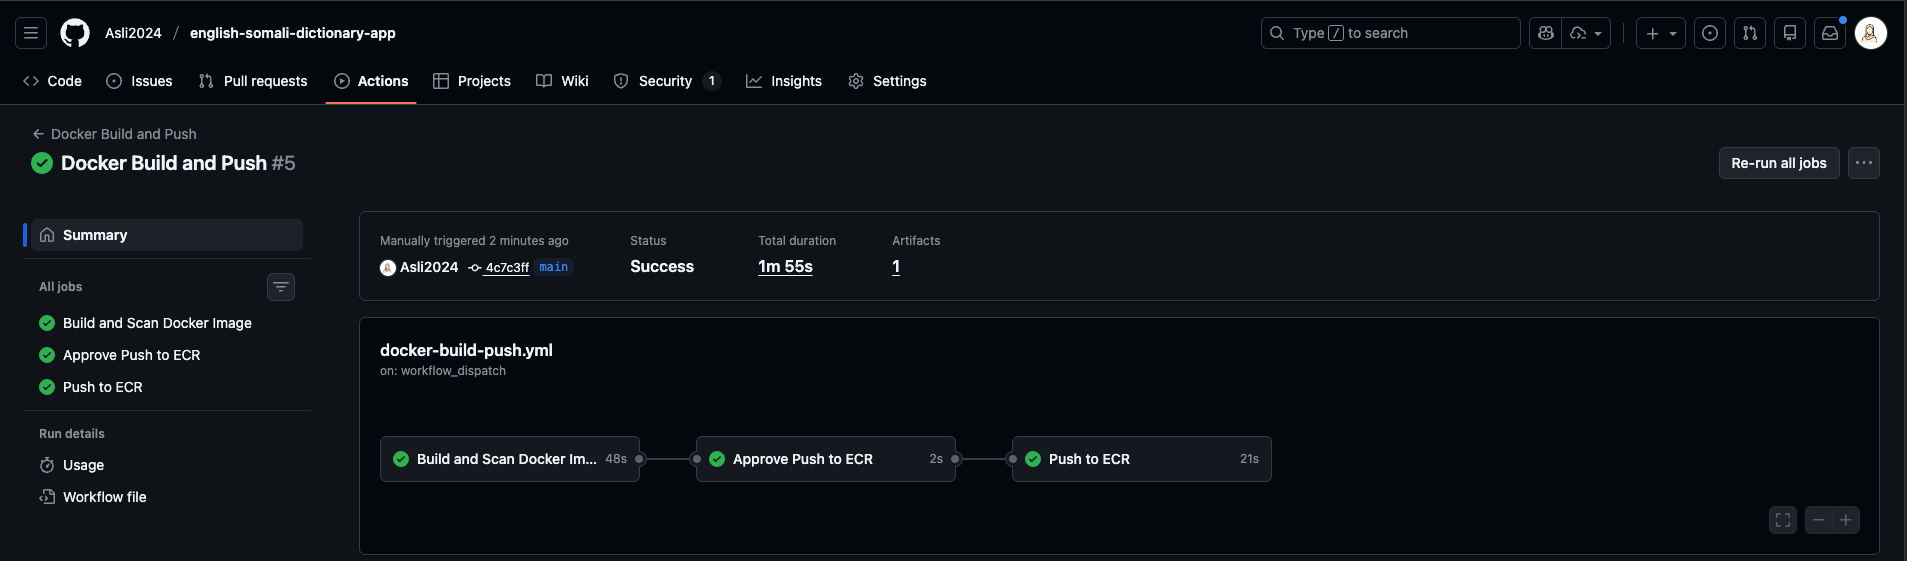
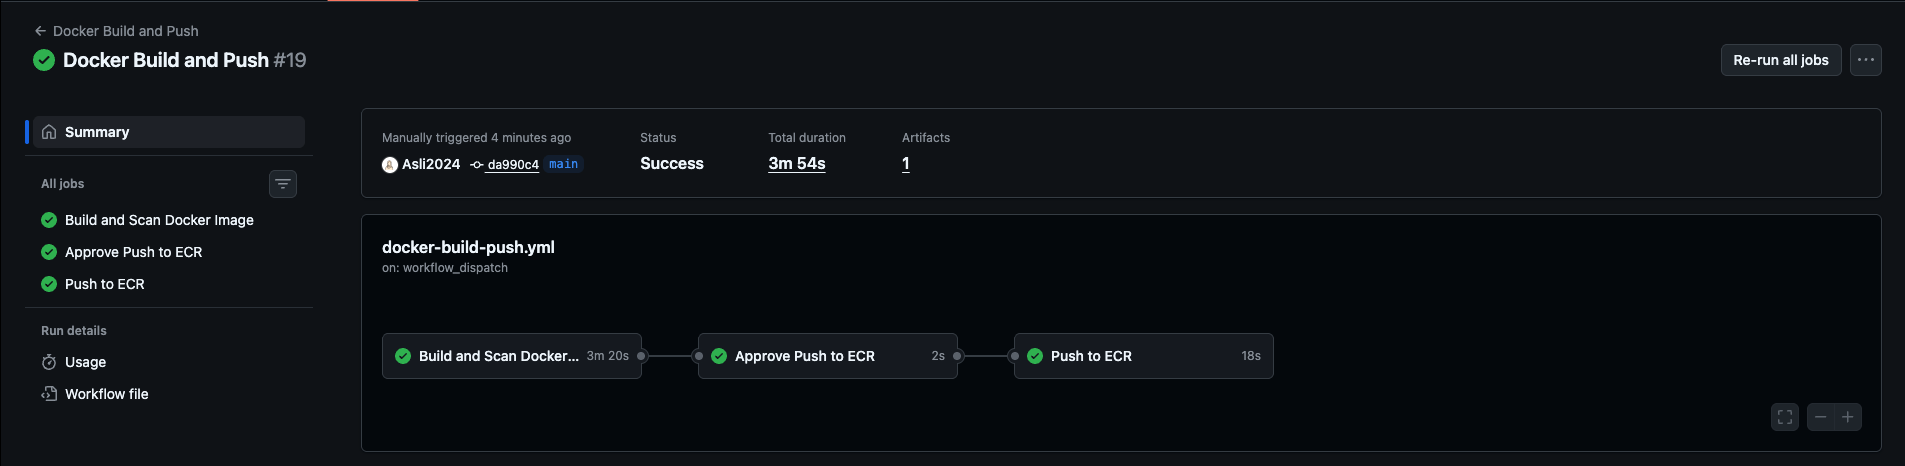
Updated README.md and db module

diff --git a/README.md b/README.md
@@ -57,15 +57,21 @@ To run the English Somali Dictionary app locally using Docker:
 
 ## Docker Multi-Stage Build
 
-**Single-Stage Build:**
+The application uses Docker multi-stage builds to optimize image size and security by separating build dependencies from the runtime environment.
 
-![Single-Stage Docker Image](images/docker-single-stage.png)
+**Single-Stage Build (122.07 MB):**
 
-**Multi-Stage Build:**
+![Single-Stage Docker Image](images/docker-single-stage-build.png)
 
-![Multi-Stage Docker Image](images/docker-multi-stage.png)
+**Multi-Stage Build (52.68 MB):**
 
-Multi-stage build reduces image size by ~XX% and improves security by removing build tools from the final image.
+![Multi-Stage Docker Image](images/docker-multi-stage-build.png)
+
+**Benefits:**
+- **56.85% reduction** in image size (122.07 MB → 52.68 MB)
+- Improved security by removing build tools (gcc, musl-dev) from final image
+- Faster deployments and reduced storage costs
+- Smaller attack surface for production containers
 
 ---
 
@@ -138,6 +144,8 @@ English-Somali-Dictionary/
 ├── images/
 │   ├── architecture-design.gif
 │   ├── docker-build-push.png
+│   ├── docker-multi-stage-build.png
+│   ├── docker-single-stage-build.png
 │   ├── terraform-apply.png
 │   ├── terraform-destroy-apply.png
 │   ├── terraform-destroy-plan-and-approve.png
@@ -184,12 +192,12 @@ GitHub Actions workflows provide:
 
 All workflows are located in `.github/workflows/`.
 
-[Docker Build, Scan , Approve and Push Run](https://github.com/Asli2024/english-somali-dictionary-app/actions/runs/20559959729): ![Docker Build Screenshot](images/docker-build-push.png)
+[Docker Build, Scan , Approve and Push Run](https://github.com/Asli2024/english-somali-dictionary-app/actions/runs/20662878015): ![Docker Build Screenshot](images/docker-build-push.png)
 
-[Terraform Plan and Approve Run](https://github.com/Asli2024/english-somali-dictionary-app/actions/runs/20582733051): ![Terraform Plan and Approve Run](images/terraform-plan-and-approve.png)
+[Terraform Plan and Approve Run](https://github.com/Asli2024/english-somali-dictionary-app/actions/runs/20663077549): ![Terraform Plan and Approve Run](images/terraform-plan-and-approve.png)
 
 
-[Terraform Apply Run](https://github.com/Asli2024/english-somali-dictionary-app/actions/runs/20582786161): ![Terraform Apply Run](images/terraform-apply.png)
+[Terraform Apply Run](https://github.com/Asli2024/english-somali-dictionary-app/actions/runs/20663097722): ![Terraform Apply Run](images/terraform-apply.png)
 
 
 [Terraform Destroy Plan and Approve](https://github.com/Asli2024/english-somali-dictionary-app/actions/runs/20583340179): ![Terraform Destroy Plan and Approve](images/terraform-destroy-plan-and-approve.png)

diff --git a/terraform/modules/dynamodb/README.md b/terraform/modules/dynamodb/README.md
@@ -11,6 +11,7 @@
 | Name | Version |
 |------|---------|
 | <a name="provider_aws"></a> [aws](#provider\_aws) | 6.15.0 |
+| <a name="provider_aws.use1"></a> [aws.use1](#provider\_aws.use1) | 6.15.0 |
 
 ## Modules
 
